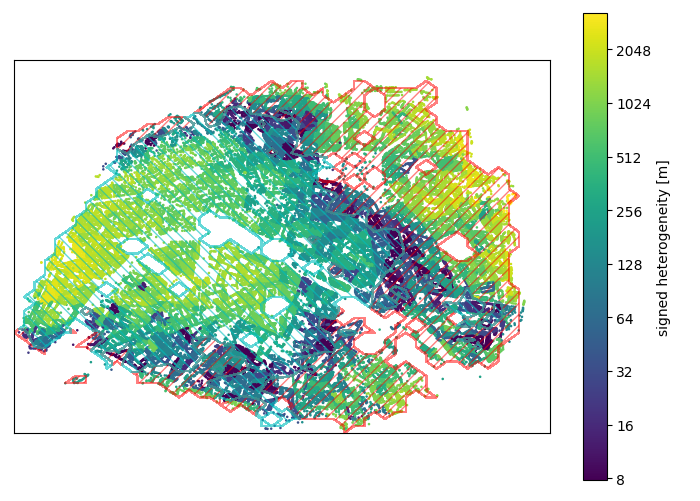
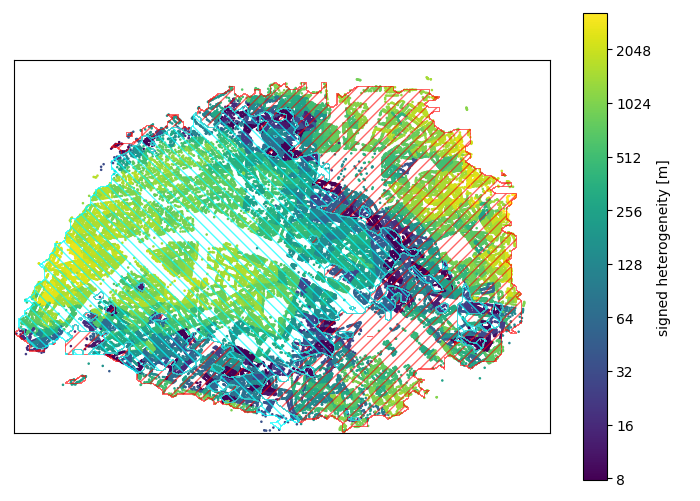
update

Changed region(s): [[0.0, 0.1497, 0.75, 0.8683], [0.09, 0.7485, 0.12, 0.7784]]

diff --git a/optimal_transport/generate_fig_article.py b/optimal_transport/generate_fig_article.py
@@ -116,7 +116,7 @@ def plot_geo_data(position_database, data, id_field, id_field_name="id_brut_bv_r
 
 	return ax.scatter(lon, lat, c=dat, s=0.7, alpha=1, norm=norm)
 
-def plot_hatching(position_database, data, id_field, id_field_name="id_brut_bv_reu", hatches_limit=0, filters=[], n_points=50, hatching="/", color="r", alpha=0.7):
+def plot_hatching(position_database, data, id_field, id_field_name="id_brut_bv_reu", hatches_limit=0, filters=[], n_points=100, hatching="/", color="r", alpha=0.7, linewidth=0.2, remove_holes=True):
 	dat, lon, lat = [], [], []
 	for id_,value in zip(id_field, data):
 		mask = position_database[id_field_name] == id_
@@ -146,8 +146,43 @@ def plot_hatching(position_database, data, id_field, id_field_name="id_brut_bv_r
 	dat_plot[dat_count == 0] = -np.inf
 	dat_plot /= np.maximum(dat_count, 1)
 
+	if remove_holes:
+		for idx_lat in range(n_points):
+			for idx_lon in range(n_points):
+				if dat_count[idx_lat, idx_lon] == 0:
+					if np.any(dat_count[idx_lat:, idx_lon] > 0) and np.any(dat_count[:idx_lat, idx_lon] > 0) \
+						and np.any(dat_count[idx_lat, idx_lon:] > 0) and np.any(dat_count[idx_lat, :idx_lon] > 0):
+						min_idx_diff = np.inf
+						for idx_lat_ in range(idx_lat+1, n_points):
+							if dat_count[idx_lat_, idx_lon] > 0:
+								min_idx_diff = idx_lat_ - idx_lat
+								dat_plot[idx_lat, idx_lon] = dat_plot[idx_lat_, idx_lon]
+								break
+						for idx_lat_ in range(idx_lat-1, -1, -1):
+							if dat_count[idx_lat_, idx_lon] > 0:
+								idx_diff = idx_lat - idx_lat_
+								if idx_diff < min_idx_diff:
+									min_idx_diff = idx_diff
+									dat_plot[idx_lat, idx_lon] = dat_plot[idx_lat_, idx_lon]
+									break
+						for idx_lon_ in range(idx_lon+1, n_points):
+							if dat_count[idx_lat, idx_lon_] > 0:
+								idx_diff = idx_lon_ - idx_lon
+								if idx_diff < min_idx_diff:
+									min_idx_diff = idx_diff
+									dat_plot[idx_lat, idx_lon] = dat_plot[idx_lat, idx_lon_]
+									break
+						for idx_lon_ in range(idx_lon-1, -1, -1):
+							if dat_count[idx_lat, idx_lon_] > 0:
+								idx_diff = idx_lon - idx_lon_
+								if idx_diff < min_idx_diff:
+									min_idx_diff = idx_diff
+									dat_plot[idx_lat, idx_lon] = dat_plot[idx_lat, idx_lon_]
+									break
+
 	c = ax.contourf(lon_plot, lat_plot, dat_plot, levels=[hatches_limit, np.inf], hatches=[hatching], alpha=alpha)
 	c.set_edgecolor(color)
+	c.set_linewidth(linewidth)
 	return c
 
 def plot_categories(position_database, categories, colors, id_field, id_field_name="id_brut_bv_reu", labels=None, filters=[]):
@@ -231,12 +266,12 @@ for filter_idx,geographical_filter in enumerate(commune):
 	compute optimal transport
 	##################### """
 	
-	distrib_canidates        = np.array([np.array(filtered_election_database[candidate + " Voix"]) for candidate in candidate_list])
-	total_vote_candidates    = np.sum(distrib_canidates, axis=1)
+	distrib_candidates        = np.array([np.array(filtered_election_database[candidate + " Voix"]) for candidate in candidate_list])
+	total_vote_candidates    = np.sum(distrib_candidates, axis=1)
 	total_voting_population  = np.sum(total_vote_candidates)
-	reference_distrib        = np.clip(np.sum(distrib_canidates, axis=0) / total_voting_population, 1e-6, np.inf)
+	reference_distrib        = np.clip(np.sum(distrib_candidates, axis=0) / total_voting_population, 1e-6, np.inf)
 
-	results = oth.ot_heterogeneity_populations(distrib_canidates, distance_matrix, unitary_direction_matrix)
+	results = oth.ot_heterogeneity_populations(distrib_candidates, distance_matrix, unitary_direction_matrix=unitary_direction_matrix)
 	
 	total_ot_dist      = results.global_heterogeneity
 	ot_dist_candidates = results.global_heterogeneity_per_category
@@ -435,9 +470,9 @@ for filter_idx,geographical_filter in enumerate(commune):
 		pl = plot_geo_data(filtered_bvote_position_database, np.abs(ot_dist_dissimilarity[candidate_idx, :]), filtered_election_database["id_brut_bv_reu"],
 			clip=clip_dissimilarity, filters=dont_show_filter[filter_idx], norm=matplotlib.colors.SymLogNorm(linthresh=0.001, base=2))
 
-		plot_hatching(filtered_bvote_position_database, (ot_dist_dissimilarity[candidate_idx, :] < 0) - 0.5, filtered_election_database["id_brut_bv_reu"], hatching="/" *3, color="r", alpha=0.5,
+		plot_hatching(filtered_bvote_position_database, (ot_dist_dissimilarity[candidate_idx, :] < 0) - 0.5, filtered_election_database["id_brut_bv_reu"], hatching="/" *3, color="r", alpha=0.6,
 			filters=dont_show_filter[filter_idx])
-		plot_hatching(filtered_bvote_position_database, (ot_dist_dissimilarity[candidate_idx, :] > 0) - 0.5, filtered_election_database["id_brut_bv_reu"], hatching="\\"*3, color="c", alpha=0.6,
+		plot_hatching(filtered_bvote_position_database, (ot_dist_dissimilarity[candidate_idx, :] > 0) - 0.5, filtered_election_database["id_brut_bv_reu"], hatching="\\"*3, color="aqua", alpha=0.7,
 			filters=dont_show_filter[filter_idx])
 
 		cbar = fig.colorbar(pl, label="signed heterogeneity [m]", format='%1.0f')
@@ -696,7 +731,7 @@ for filter_idx,geographical_filter in enumerate(commune):
 		################################################
 		############################################ """
 
-		results_convex = oth.ot_heterogeneity_populations(distrib_canidates, distance_matrix, unitary_direction_matrix, epsilon_exponent=1e-3)
+		results_convex = oth.ot_heterogeneity_populations(distrib_candidates, distance_matrix, unitary_direction_matrix=unitary_direction_matrix, epsilon_exponent=1e-3)
 
 		ot_dist_contribution_convex            = results_convex.local_heterogeneity
 		ot_dist_contribution_candidates_convex = results_convex.local_heterogeneity_per_category
